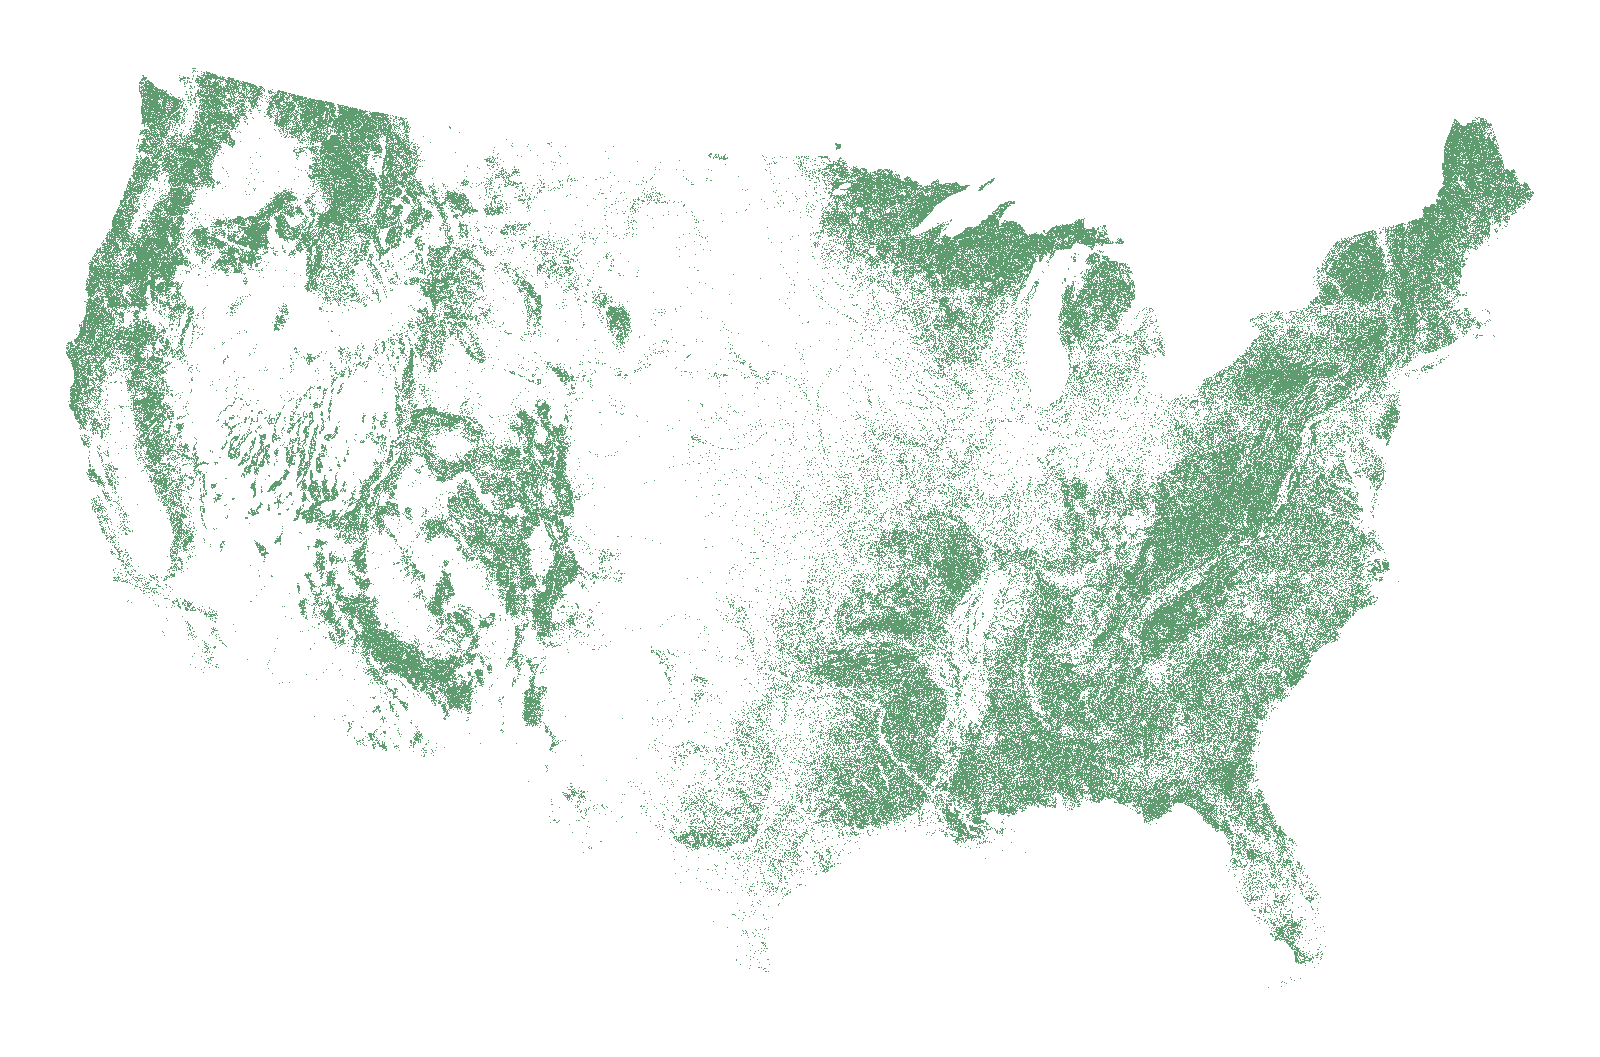
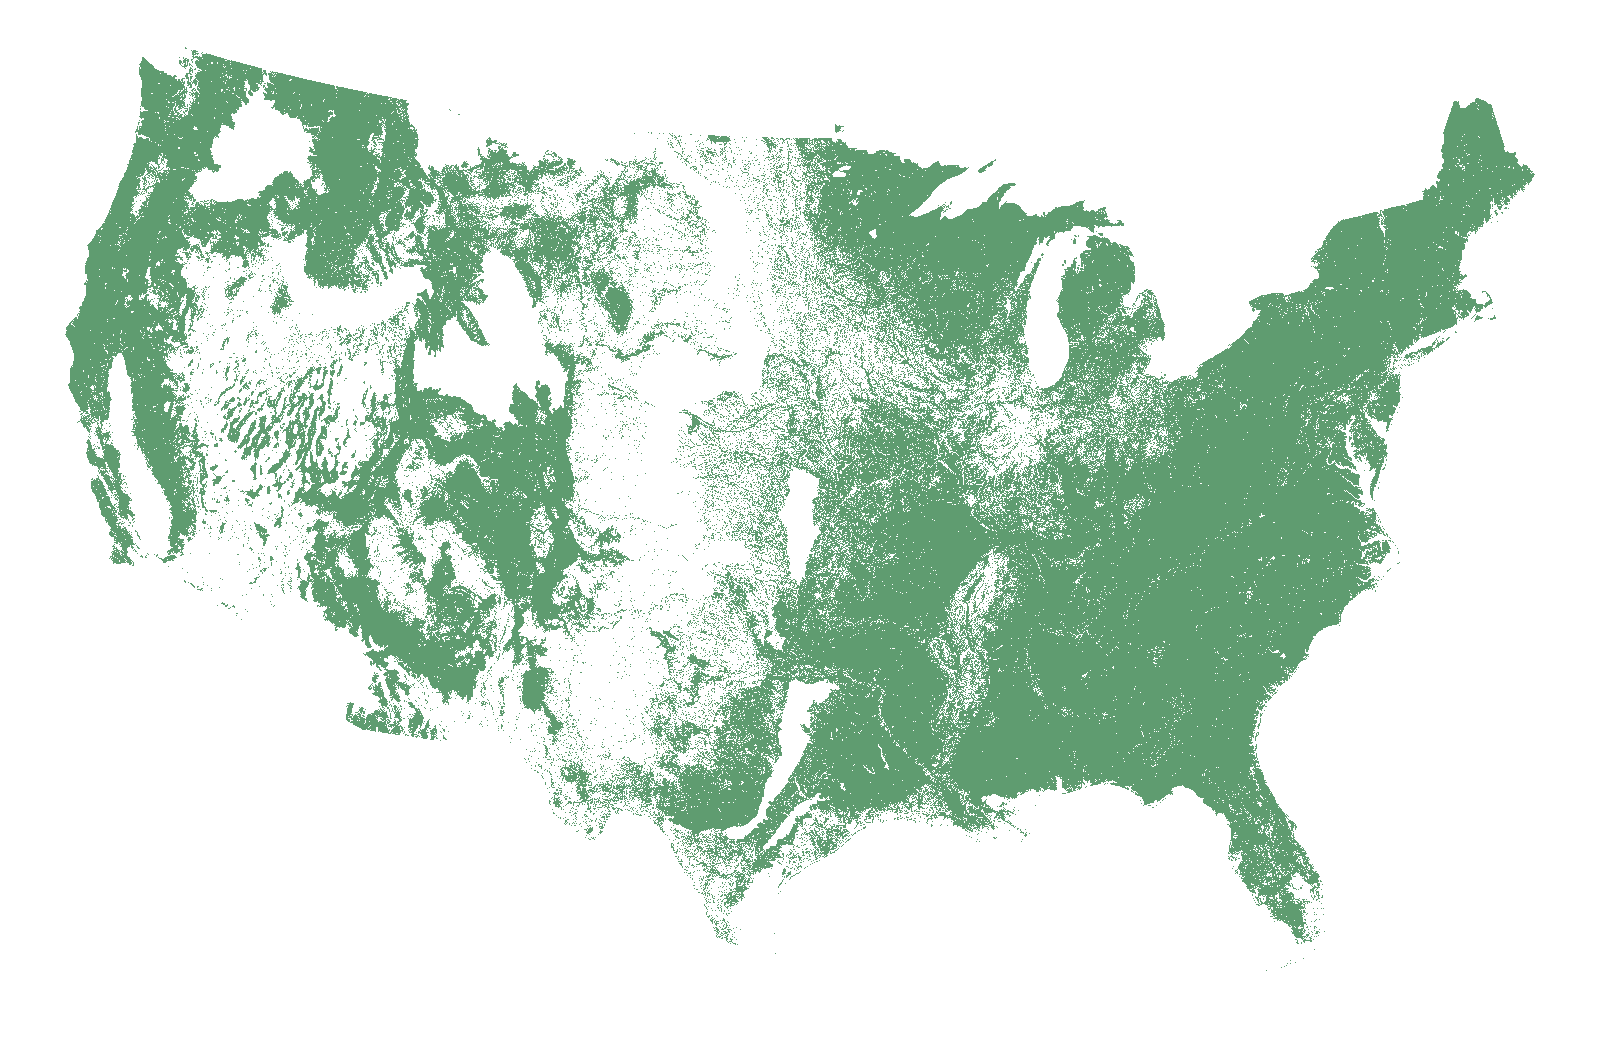
Forest base from disturbance forest mask (fortype/NLCD sources unusable); biodiversity from FIA composition; cache-bust v3

Changed region(s): [[0.0312, 0.0312, 0.9688, 0.9054]]

diff --git a/src/App.jsx b/src/App.jsx
@@ -740,12 +740,21 @@ export default function App(){
     const R = (p) => `${BASE}raster/${p}`;
     let landscape = null;
     try{
-      const [own, risk, ffrac, divers] = await Promise.all([
+      const [own, risk, ffrac] = await Promise.all([
         ownershipComposition(R("conus_ownership.png"), FRAME, ring).catch(()=>null),
         riskSummary(R("conus_p_disturbance_2022.png"), FRAME, ring).catch(()=>null),
-        forestFraction(R("conus_forest_nonforest.png?v=2"), FRAME, ring).catch(()=>null),
-        forestTypeDiversity(R("conus_fortype_2022.png"), FRAME, ring).catch(()=>null),
+        forestFraction(R("conus_forest_nonforest.png?v=3"), FRAME, ring).catch(()=>null),
       ]);
+      // Forest-type diversity for biodiversity: prefer FIA plot composition (the
+      // fortype raster collapses to one class), fall back to ecoregion richness.
+      let divers = null;
+      if(plotStats && plotStats.forestTypes && plotStats.forestTypes.length){
+        const fts = plotStats.forestTypes.filter(f=>f.label && f.label.toLowerCase()!=="nonforest");
+        const richness = fts.length;
+        let H = 0; const tot = fts.reduce((a,f)=>a+f.pct,0) || 1;
+        for(const f of fts){ const p = f.pct/tot; if(p>0) H -= p*Math.log(p); }
+        if(richness>0) divers = { evenness: richness>1 ? H/Math.log(richness) : 0, richness };
+      }
       // Indicative composite ecosystem indices (0..1) from available spatial inputs.
       const ageScore = plotStats && plotStats.meanAge != null
         ? Math.max(0, Math.min(1, plotStats.meanAge / 120)) : null;
@@ -754,7 +763,7 @@ export default function App(){
       const habParts = [[contin,0.45],[ageScore,0.30],[riskPen,0.25]].filter(p=>p[0]!=null);
       const wsum = habParts.reduce((a,p)=>a+p[1],0);
       const habScore = habParts.length ? habParts.reduce((a,p)=>a+p[0]*p[1],0)/wsum : null;
-      const bioScore = divers ? (0.7*divers.evenness + 0.3*Math.min(1,(divers.richness-1)/2)) : null;
+      const bioScore = divers ? (0.6*divers.evenness + 0.4*Math.min(1,(divers.richness-1)/3)) : null;
       const band = (s)=> s==null?null : s<0.34?"Low":s<0.67?"Moderate":"High";
       landscape = {
         ownership: own, risk, forestFrac: ffrac, diversity: divers,
@@ -868,7 +877,7 @@ export default function App(){
                           inspectMode={inspectMode}
                           onInspect={handleInspect}
                           userLoc={userLoc}
-                          baseLayer={baseOn ? `${BASE}raster/conus_forest_nonforest.png?v=2` : null}
+                          baseLayer={baseOn ? `${BASE}raster/conus_forest_nonforest.png?v=3` : null}
                           baseBounds={baseBounds}
                           baseOpacity={0.82}
                           focusGeom={focusGeom}/>